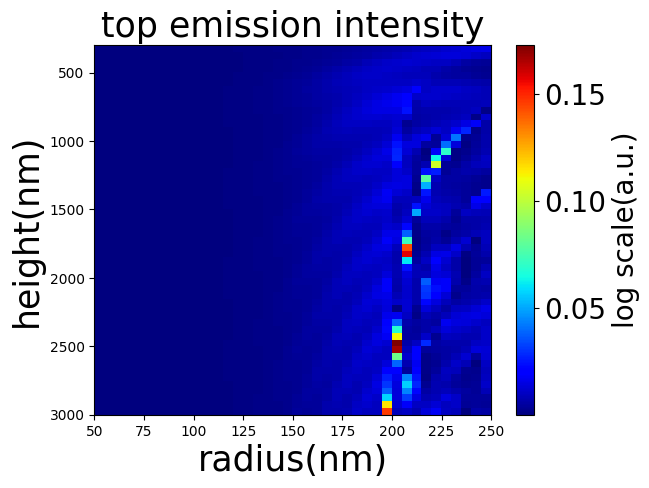
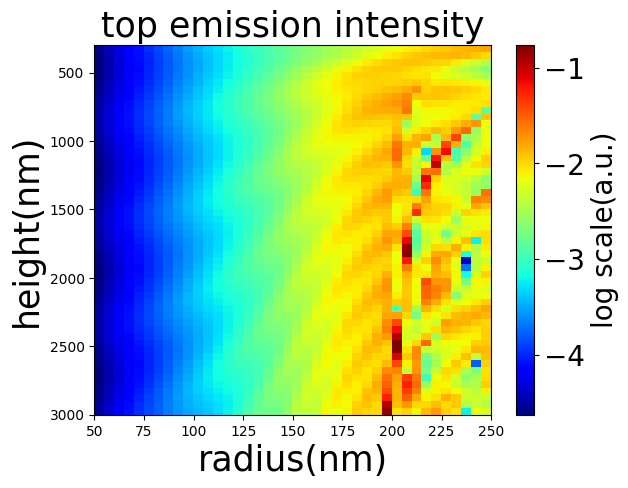
Nothing

diff --git a/AtomLib/sweepAnalysis.py b/AtomLib/sweepAnalysis.py
@@ -18,6 +18,7 @@ class PY_S4_Analysis_Config:
     sectionName='PY_S4_Analysis'
     options={'height_range': (list,True),
              'radii_range': (list,True),
+             'logScale' : (bool,True),
              'inputFile_T': (str,True),
              'inputFile_E': (str,True),
              'outputPath': (str,True),
@@ -87,7 +88,10 @@ def PY_S4_Analysis(cfg):
         t=np.array(infT)
         print(t.shape)
         plt.figure(1)
-        plt.imshow((np.abs(t)),cmap='jet',extent=[r_min,r_max,h_max,h_min],aspect='auto')
+        if cfg.logScale==True:
+            plt.imshow(np.log10(np.abs(t)),cmap='jet',extent=[r_min,r_max,h_max,h_min],aspect='auto')
+        else:
+            plt.imshow((np.abs(t)),cmap='jet',extent=[r_min,r_max,h_max,h_min],aspect='auto') 
         c1 = plt.colorbar()
         c1.set_label("log scale(a.u.)",fontsize=20)
         c1.ax.tick_params(labelsize=20) 
